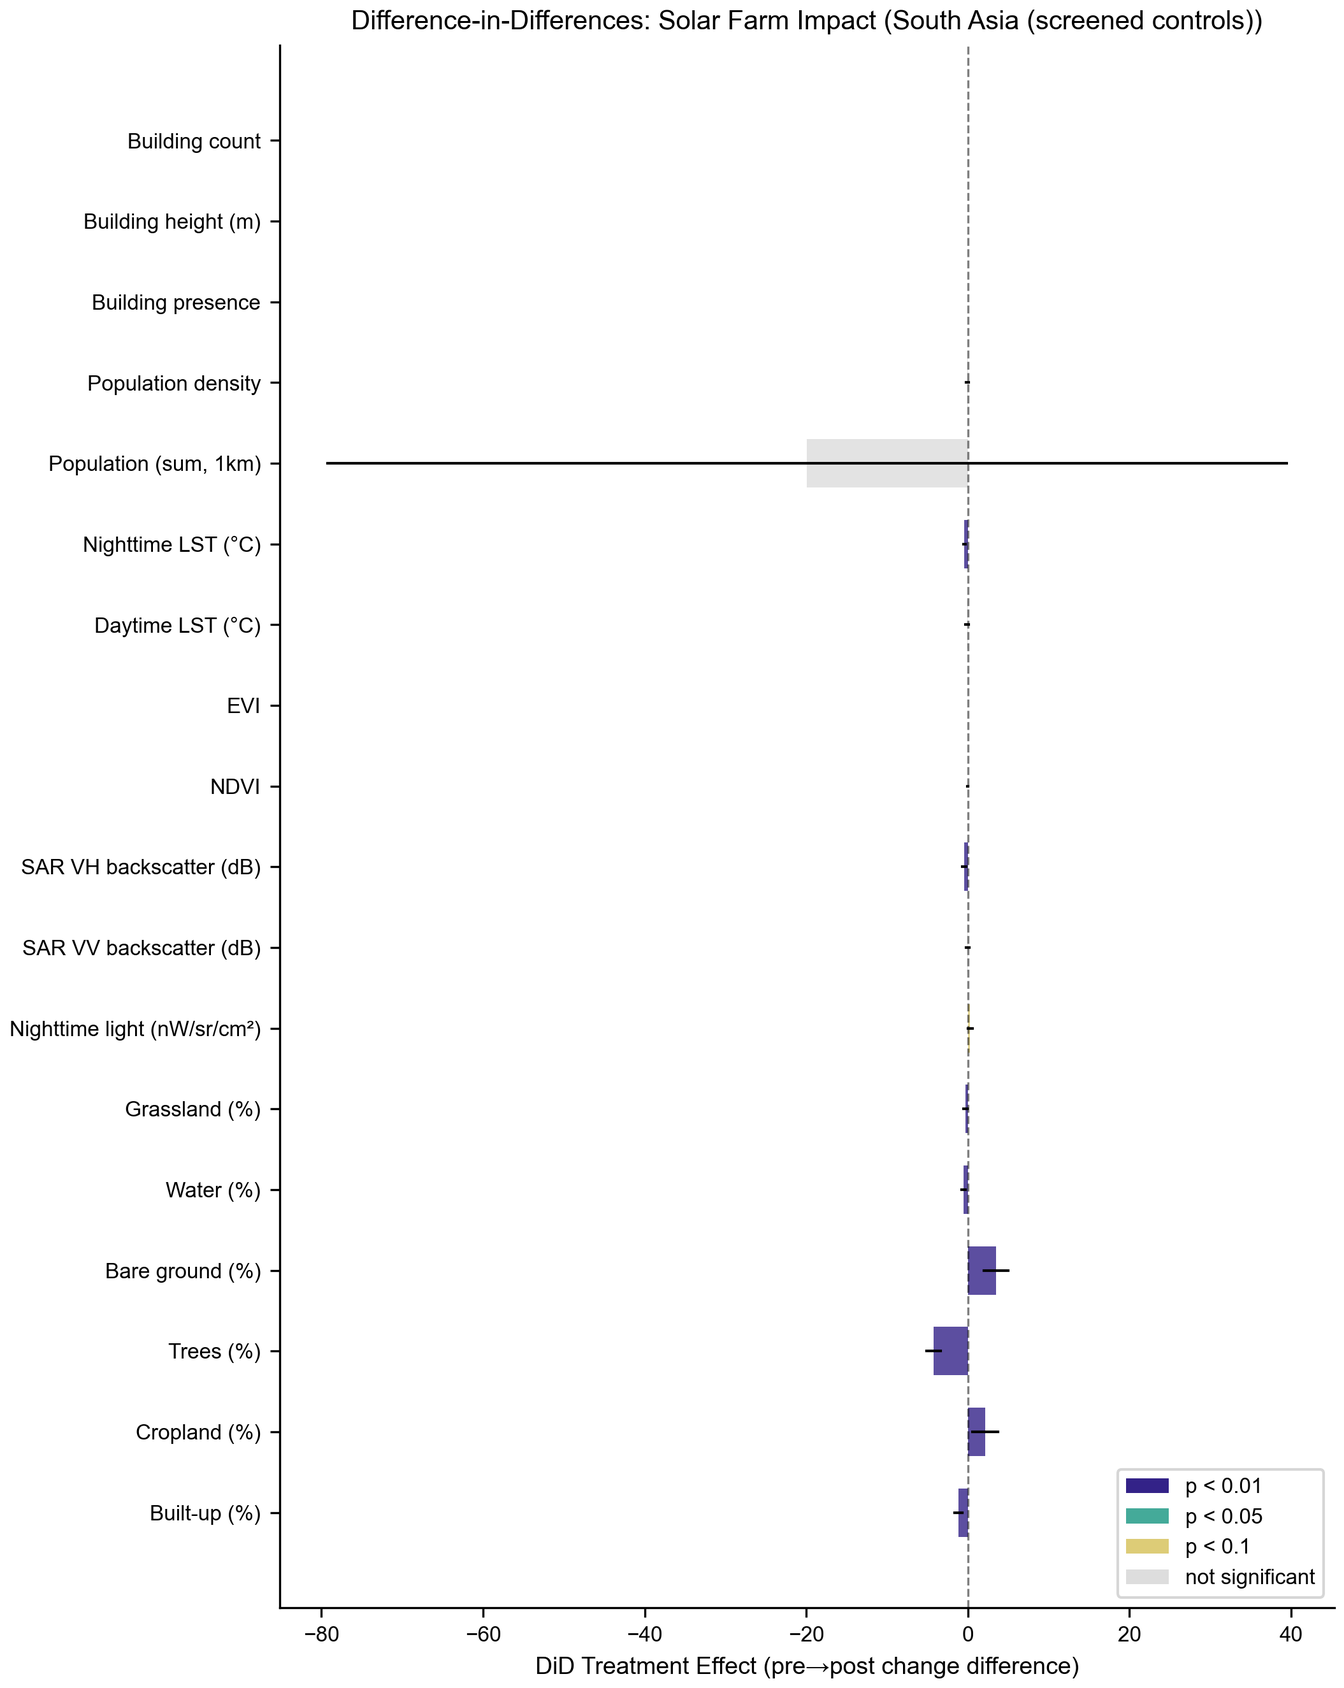
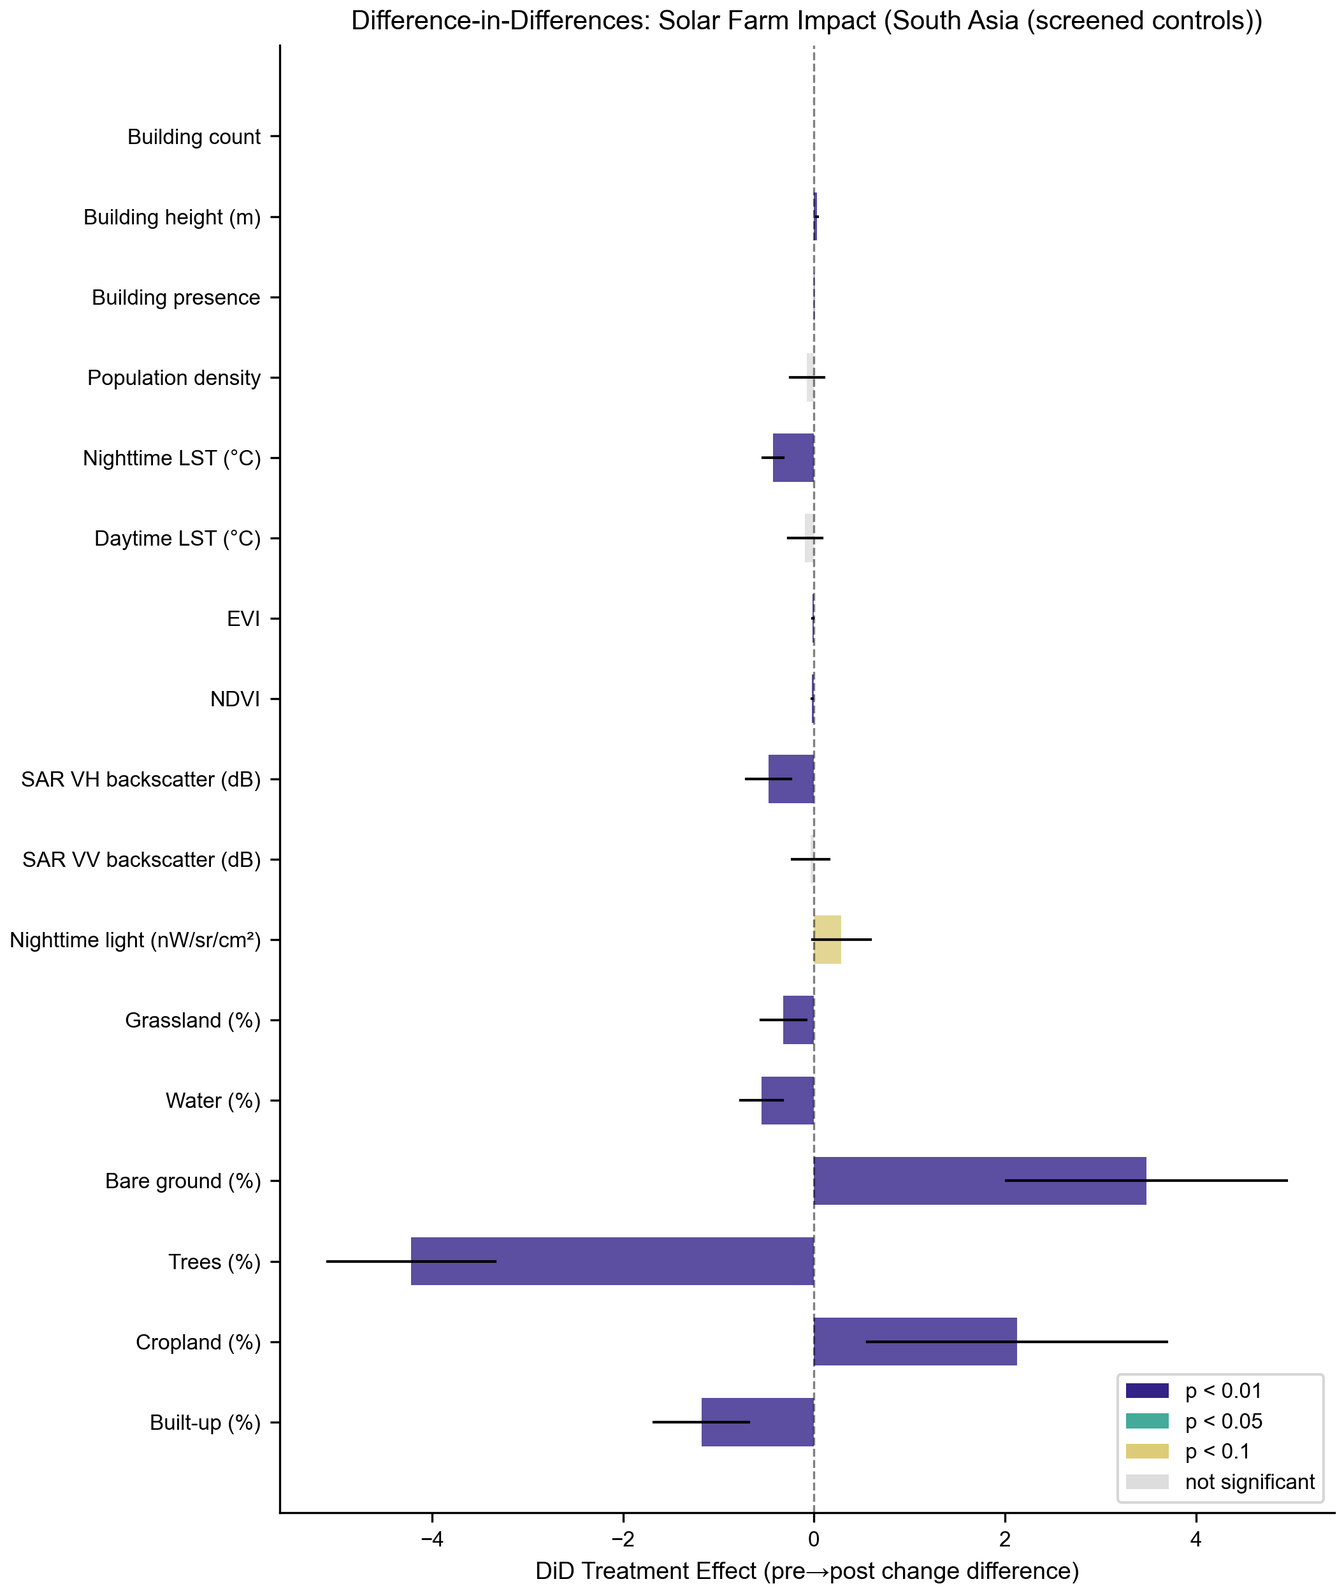
Fix forest plot axis scaling and reframe DW/solar language
Figures: filter outlier-scale outcomes (population sum) from forest
plots so coefficients are visible. Affects staggered DiD, placebo
test, and baseline coefficient charts.

Paper: reframe DW language throughout - DW is not designed to classify
solar (it's not in the class taxonomy), so stop saying it "misclassifies"
solar. Instead frame VLM as supplementing DW by adding solar detection
that standard LULC products cannot provide. Updated abstract, intro,
results, case studies, discussion, and limitations sections.

diff --git a/paper/draft.tex b/paper/draft.tex
@@ -52,7 +52,7 @@
 
 \begin{abstract}
 \noindent
-South Asia's rapid solar energy expansion raises concerns about agricultural land displacement, yet large-scale empirical evidence remains scarce. Here we quantify land cover transitions at 3,676 operational solar installations across six South Asian countries by combining satellite-derived polygon databases with multi-temporal Earth observation data from seven sources. Pre-construction land within solar footprints was 39.6\% cropland, 17.3\% bare ground, and 17.1\% shrub, with pronounced country-level variation. Doubly-robust difference-in-differences estimates using not-yet-treated controls indicate that solar construction reduces tree cover by 1.45\pp{} ($p < 0.001$) and increases cropland reclassification by 1.84\pp{} ($p < 0.001$), with nighttime land surface temperature declining by 0.13\,$^{\circ}$C ($p < 0.001$). Vision-language model validation on 4.77-metre imagery confirms that standard satellite land cover products systematically misclassify solar panels as bare ground or built-up area. Our findings reveal that solar farms in South Asia primarily displace cropland and scrubland, with deforestation concentrated in surrounding landscapes rather than within installation footprints.
+South Asia's rapid solar energy expansion raises concerns about agricultural land displacement, yet large-scale empirical evidence remains scarce. Here we quantify land cover transitions at 3,676 operational solar installations across six South Asian countries by combining satellite-derived polygon databases with multi-temporal Earth observation data from seven sources. Pre-construction land within solar footprints was 39.6\% cropland, 17.3\% bare ground, and 17.1\% shrub, with pronounced country-level variation. Doubly-robust difference-in-differences estimates using not-yet-treated controls indicate that solar construction reduces tree cover by 1.45\pp{} ($p < 0.001$) and increases cropland reclassification by 1.84\pp{} ($p < 0.001$), with nighttime land surface temperature declining by 0.13\,$^{\circ}$C ($p < 0.001$). We further demonstrate that vision-language models applied to 4.77-metre imagery can identify solar installations---a land cover type absent from standard classification schemes---enabling joint characterisation of solar extent and surrounding land cover that conventional products cannot provide. Our findings reveal that solar farms in South Asia primarily displace cropland and scrubland, with deforestation concentrated in surrounding landscapes rather than within installation footprints.
 \end{abstract}
 
 \medskip
@@ -70,7 +70,7 @@ South Asia is pursuing one of the world's most ambitious expansions of utility-s
 
 Previous work has documented the land use footprint of solar installations in high-income countries. Hernandez et al.\citep{hernandez2015} mapped solar development impacts on land cover change and protected areas in the United States, finding that installations were concentrated in natural shrublands and agricultural land. Earlier reviews established the environmental dimensions of utility-scale solar\citep{hernandez2014} and quantified land use intensity relative to other energy sources\citep{fthenakis2009,ong2013,vanzalk2018}. Kruitwagen et al.\citep{kruitwagen2021} produced the first global inventory of 68,661 PV generating units from satellite imagery, reporting that the majority were sited on cropland. Van de Ven et al.\citep{vandeven2021} estimated that achieving climate targets could require converting 0.5--5\% of current agricultural land to solar energy globally. In the United States, Maguire et al.\citep{maguire2024} found that 43\% of solar farms were installed on former cropland, while Hu et al.\citep{hu2025} demonstrated heterogeneous property value impacts using a difference-in-differences design. More recently, Curioni et al.\citep{curioni2025} analysed global land--water competition between solar energy and agriculture, confirming that synergies through agrivoltaics\citep{barrongafford2019,dinesh2016} could alleviate but not eliminate land competition.
 
-Despite this growing body of work, three critical gaps remain. First, nearly all causal evidence on solar land use impacts comes from the United States and Europe; the Global South---where land competition is most acute---remains largely unstudied at scale\citep{contextnews2024}. Second, existing analyses rely on static land cover snapshots or simple before--after comparisons, which cannot distinguish solar-induced changes from secular trends in urbanisation and agricultural intensification\citep{wuepper2025}. Third, standard satellite land cover products such as Dynamic World\citep{brown2022} lack a solar panel class, systematically misclassifying installed capacity as bare ground, built-up area, or snow/ice\citep{comparativeval2024}, which confounds impact assessment.
+Despite this growing body of work, three critical gaps remain. First, nearly all causal evidence on solar land use impacts comes from the United States and Europe; the Global South---where land competition is most acute---remains largely unstudied at scale\citep{contextnews2024}. Second, existing analyses rely on static land cover snapshots or simple before--after comparisons, which cannot distinguish solar-induced changes from secular trends in urbanisation and agricultural intensification\citep{wuepper2025}. Third, standard satellite land cover products such as Dynamic World\citep{brown2022} do not include solar panels as a classification category---by design, since their goal is to characterise natural and anthropogenic land cover globally, not to identify specific infrastructure types. Solar-covered land is consequently labelled as bare ground, built-up area, or other existing classes, making it impossible to disentangle solar-driven land cover change from the underlying transitions using these products alone. Dedicated solar detection datasets like the Global Renewables Watch\citep{robinson2025} address this gap but do not provide the surrounding land cover context needed for impact assessment.
 
 Here we address these gaps through the first large-scale quantification of solar energy-driven land cover transitions in South Asia. We integrate three independent solar installation databases---the Global Energy Monitor Solar Power Tracker\citep{gem2025}, the Global Renewables Watch (GRW)\citep{robinson2025}, and the TransitionZero Solar Asset Mapper (TZ-SAM)\citep{tzsam2025}---into a unified database of 6,705 entries with cross-source confidence scoring. From this, we identify 3,676 high-confidence operational installations across India, Pakistan, Bangladesh, Nepal, Sri Lanka, and Bhutan, along with 368 announced-but-unbuilt projects that serve as comparison sites.
 
@@ -92,7 +92,7 @@ The 3,676 operational installations span construction dates from 2015 to 2025 an
 
 Analysis of Dynamic World baseline composites within the exact polygon boundaries of 5,888 operational sites reveals that \textbf{cropland (39.6\%)} was the dominant pre-solar land cover class across South Asia (Fig.\,\ref{fig:polygon_lulc}). This was followed by bare ground (17.3\%), shrub/scrub (17.1\%), built-up (16.4\%), and trees/forest (7.0\%). Standard deviations of 28--40\% indicate substantial site-to-site heterogeneity.
 
-Country-level decomposition reveals marked geographic variation. In India ($n = 5{,}144$) and Pakistan ($n = 485$), solar installations predominantly replaced cropland (41\% and 35\%, respectively) and semi-arid scrubland. In contrast, Sri Lanka ($n = 114$) and Bhutan ($n = 6$) show tree/forest-dominated pre-solar land cover (35\% and 34\%), consistent with installations in more forested terrain. Bangladesh's anomalously high built-up fraction (36\%) likely reflects Dynamic World misclassification in dense rural landscapes\citep{comparativeval2024} rather than genuine prior urbanisation, a finding corroborated by our VLM validation (Section~\ref{sec:vlm}).
+Country-level decomposition reveals marked geographic variation. In India ($n = 5{,}144$) and Pakistan ($n = 485$), solar installations predominantly replaced cropland (41\% and 35\%, respectively) and semi-arid scrubland. In contrast, Sri Lanka ($n = 114$) and Bhutan ($n = 6$) show tree/forest-dominated pre-solar land cover (35\% and 34\%), consistent with installations in more forested terrain. Bangladesh's anomalously high built-up fraction (36\%) likely reflects known limitations of Dynamic World in dense rural South Asian landscapes\citep{comparativeval2024}---where smallholder plots, homesteads, and rice paddies create spectrally ambiguous mosaics---rather than genuine prior urbanisation, a finding corroborated by our VLM validation (Section~\ref{sec:vlm}).
 
 \begin{figure}[t]
   \centering
@@ -216,7 +216,7 @@ Bangladesh's small sample ($n = 81$) yields only one significant result (bare gr
 
 We conducted detailed annual analyses (2016--2026) of four Bangladesh installations spanning the capacity spectrum: Teesta (200\,MW), Feni (75\,MW), Manikganj (35\,MW), and Moulvibazar (10\,MW). Using Planet basemap imagery at 4.77\,m resolution with annual January composites, we tracked land cover change through both Dynamic World classification and VLM assessment (Fig.\,\ref{fig:case_studies}).
 
-At the two largest sites, DW-derived cropland collapsed from 33--39\% to 3--5\% post-construction ($-88$ to $-92$\% relative change), confirming that solar farms in Bangladesh predominantly displace agricultural land. NDVI declined by 10--12\% at three of four sites. DW misclassified solar panels primarily as bare ground ($+20$ to $+59\pp$) and occasionally as snow/ice (5.4\% at Teesta), demonstrating the failure mode that motivates our VLM approach.
+At the two largest sites, DW-derived cropland collapsed from 33--39\% to 3--5\% post-construction ($-88$ to $-92$\% relative change), confirming that solar farms in Bangladesh predominantly displace agricultural land. NDVI declined by 10--12\% at three of four sites. Since DW does not include a solar panel class, installed arrays are absorbed into existing categories---primarily bare ground ($+20$ to $+59\pp$) and occasionally snow/ice (5.4\% at Teesta, due to high surface reflectance). This illustrates why supplementing standard LULC products with dedicated solar detection is essential for impact assessment.
 
 Three of four sites had cropland as a top-two pre-construction land cover class according to VLM assessment, consistent with reports documenting the conversion of productive agricultural land for solar development in Bangladesh\citep{contextnews2024,thedailystar2024}.
 
@@ -241,8 +241,8 @@ We evaluated five Gemini configurations on four test images spanning pre-constru
 \paragraph{Control site validation.}
 VLM assessment of 50 stratified comparison sites confirmed that 98\% (49/50) showed no visible solar installation, validating the control group. The VLM also revealed systematic Dynamic World biases: DW overestimates built-up area by $+6.6\pp$ and underestimates grassland by $-9.3\pp$ relative to visual assessment across South Asian landscapes.
 
-\paragraph{Dynamic World misclassification.}
-Comparison between DW and VLM classifications across 30 matched images revealed a mean pixel disagreement rate of 70\%. DW systematically overestimates forest ($+23.1\pp$) and water ($+14.3\pp$) relative to VLM, while underestimating cropland ($-36.3\pp$). This finding has important implications for studies using DW for agricultural monitoring in South Asia.
+\paragraph{DW--VLM divergence in South Asian landscapes.}
+Comparison between DW and VLM classifications across 30 matched images revealed a mean disagreement rate of 70\%. DW estimates substantially more forest ($+23.1\pp$) and water ($+14.3\pp$) relative to VLM, while VLM identifies more cropland ($+36.3\pp$). These divergences likely reflect the spectral ambiguity of wet-season rice paddies (classified as water by DW) and scattered tree cover in agricultural mosaics. This finding highlights the value of VLM-based validation for studies using DW for agricultural monitoring in South Asia, particularly in landscapes where smallholder agriculture, water management, and vegetation intermix at sub-pixel scales.
 
 \todoinline{Add full-dataset VLM classification results (36,760 images) when complete. Expected to provide: (i) VLM-based solar detection for all sites, (ii) corrected pre-construction cropland estimates, (iii) VLM-screened control robustness check.}
 
@@ -252,7 +252,7 @@ Comparison between DW and VLM classifications across 30 matched images revealed 
   \caption{%
     \textbf{VLM model comparison: Teesta 200\,MW post-construction (2024).}
     Per-class land cover estimates from Dynamic World and four Gemini configurations.
-    Only the VLM models detect solar panels; DW classifies them as bare ground (27.3\%) and built-up (29.6\%).
+    VLM models identify solar panels as a distinct class, whereas DW---which does not include solar in its class taxonomy---distributes this area across bare ground (27.3\%) and built-up (29.6\%).
   }
   \label{fig:vlm_comparison}
 \end{figure}
@@ -282,7 +282,7 @@ Our deployment of a frontier VLM (Gemini 2.5 Flash) for satellite image classifi
 
 However, VLMs are not without limitations. Our benchmark revealed that Gemini 2.5 Flash consistently overestimates solar area relative to polygon-derived ground truth (32\% vs.\ $\sim$22\% expected at the Teesta site), suggesting a sensitivity--specificity trade-off. The failure of native segmentation mask outputs---response truncation producing degenerate byte patterns---indicates that current VLMs are better suited to image-level classification than pixel-level segmentation.
 
-The 70\% pixel disagreement rate between Dynamic World and VLM classifications highlights a broader concern: land cover products in South Asia may be less reliable than their global accuracy statistics suggest. DW's systematic overestimation of water ($+14.3\pp$) in Bangladesh likely reflects misclassification of wet rice paddies, a known failure mode for spectral classifiers in monsoon agriculture regions. Studies relying on DW for cropland monitoring in South Asia should consider VLM validation as a complementary approach.
+The 70\% disagreement rate between Dynamic World and VLM classifications highlights a broader concern: global land cover products may be less well-calibrated for South Asian agricultural landscapes than their aggregate accuracy statistics suggest. DW's tendency to assign higher water fractions ($+14.3\pp$) in Bangladesh likely reflects the spectral similarity between wet rice paddies and open water---a known challenge for automated classifiers in monsoon agriculture regions. This does not represent a failure of DW, which is designed for global, near-real-time land cover mapping across nine broad classes, but rather illustrates the value of supplementary approaches like VLMs that can be prompted with region-specific context. By combining DW's temporal coverage with VLM's ability to identify solar infrastructure and resolve spectrally ambiguous landscapes, we obtain a more complete picture than either approach alone.
 
 \subsection{Policy implications}
 
@@ -294,7 +294,7 @@ Third, the nighttime cooling effect ($-0.13$ to $-0.34\,^{\circ}$C) adds to grow
 
 \subsection{Limitations}
 
-Several limitations warrant discussion. Our treatment group is based on remotely sensed polygon detection, which may miss installations smaller than $\sim$1\,MW or those under cloud cover. The comparison group of announced-but-unbuilt projects may differ from operational sites in unobservable ways (political viability, land acquisition feasibility), although PSM and DR-CS estimation address selection on observables. Dynamic World's 10\,m resolution and per-scene classification introduce noise, and we have documented its systematic biases in South Asian landscapes. The MODIS-derived LST and vegetation indices (1\,km and 250\,m resolution, respectively) average over areas much larger than typical solar installations, diluting the signal. Finally, our study period (2016--2025) captures the acceleration phase of South Asian solar deployment; longer time horizons will be needed to assess permanent land cover reorganisation versus transient construction effects.
+Several limitations warrant discussion. Our treatment group is based on remotely sensed polygon detection, which may miss installations smaller than $\sim$1\,MW or those under cloud cover. The comparison group of announced-but-unbuilt projects may differ from operational sites in unobservable ways (political viability, land acquisition feasibility), although PSM and DR-CS estimation address selection on observables. Dynamic World's 10\,m resolution and per-scene classification introduce noise, and its class taxonomy excludes solar panels, requiring supplementary detection methods for solar impact studies. The MODIS-derived LST and vegetation indices (1\,km and 250\,m resolution, respectively) average over areas much larger than typical solar installations, diluting the signal. Finally, our study period (2016--2025) captures the acceleration phase of South Asian solar deployment; longer time horizons will be needed to assess permanent land cover reorganisation versus transient construction effects.
 
 % ══════════════════════════════════════════════════════════════════════════════
 % 4. METHODS

diff --git a/scripts/run_did_analysis.py b/scripts/run_did_analysis.py
@@ -638,6 +638,9 @@ def plot_placebo_results(placebo_results, country_label=""):
     apply_style()
 
     valid = [r for r in placebo_results if not np.isnan(r["treatment_coef"])]
+    # Remove outlier-scale outcomes that blow out the x-axis
+    valid = _filter_outlier_outcomes(
+        valid, "treatment_coef", ("treatment_ci_low", "treatment_ci_high"))
     if not valid:
         return
 
@@ -650,7 +653,7 @@ def plot_placebo_results(placebo_results, country_label=""):
     pvals = [r["treatment_pval"] for r in valid]
     y_pos = range(len(valid))
 
-    # Color: red if significant (parallel trends violated), grey if not
+    # Color: red if significant (parallel trends violated), blue if not
     colors = ["#CC6677" if p < 0.05 else "#88CCEE" for p in pvals]
 
     ax.barh(y_pos, coefs, color=colors, edgecolor="none", height=0.6, alpha=0.8)
@@ -1366,12 +1369,42 @@ def run_conditional_placebo(df, outcomes_list):
     return results
 
 
+def _filter_outlier_outcomes(results_list, coef_key="agg_att", ci_keys=("agg_ci_low", "agg_ci_high")):
+    """Remove outcomes whose CIs are >20x the median CI width.
+
+    This prevents population sum (CI width ~5000) from blowing out the
+    x-axis when other outcomes have CI widths of ~1-10.
+    """
+    if not results_list:
+        return results_list
+
+    ci_lo_key, ci_hi_key = ci_keys
+    widths = []
+    for r in results_list:
+        lo = r.get(ci_lo_key, 0)
+        hi = r.get(ci_hi_key, 0)
+        if not np.isnan(lo) and not np.isnan(hi):
+            widths.append(abs(hi - lo))
+
+    if not widths:
+        return results_list
+
+    median_width = np.median(widths)
+    if median_width == 0:
+        return results_list
+
+    return [r for r in results_list
+            if abs(r.get(ci_hi_key, 0) - r.get(ci_lo_key, 0)) < 20 * median_width]
+
+
 def plot_staggered_did(cs_results_list, country_label=""):
     """Forest plot comparing Callaway-Sant'Anna ATT estimates."""
     apply_style()
 
     valid = [r for r in cs_results_list
              if r and not np.isnan(r["agg_att"])]
+    # Remove outlier-scale outcomes (e.g. population sum)
+    valid = _filter_outlier_outcomes(valid, "agg_att", ("agg_ci_low", "agg_ci_high"))
     if not valid:
         return
 
@@ -1475,8 +1508,10 @@ def plot_coefficient_chart(results, country_label=""):
     """Forest plot of DiD treatment coefficients."""
     apply_style()
 
-    # Filter to results with valid coefficients
+    # Filter to results with valid coefficients, remove outlier-scale outcomes
     valid = [r for r in results if not np.isnan(r["treatment_coef"])]
+    valid = _filter_outlier_outcomes(
+        valid, "treatment_coef", ("treatment_ci_low", "treatment_ci_high"))
     if not valid:
         return
 
